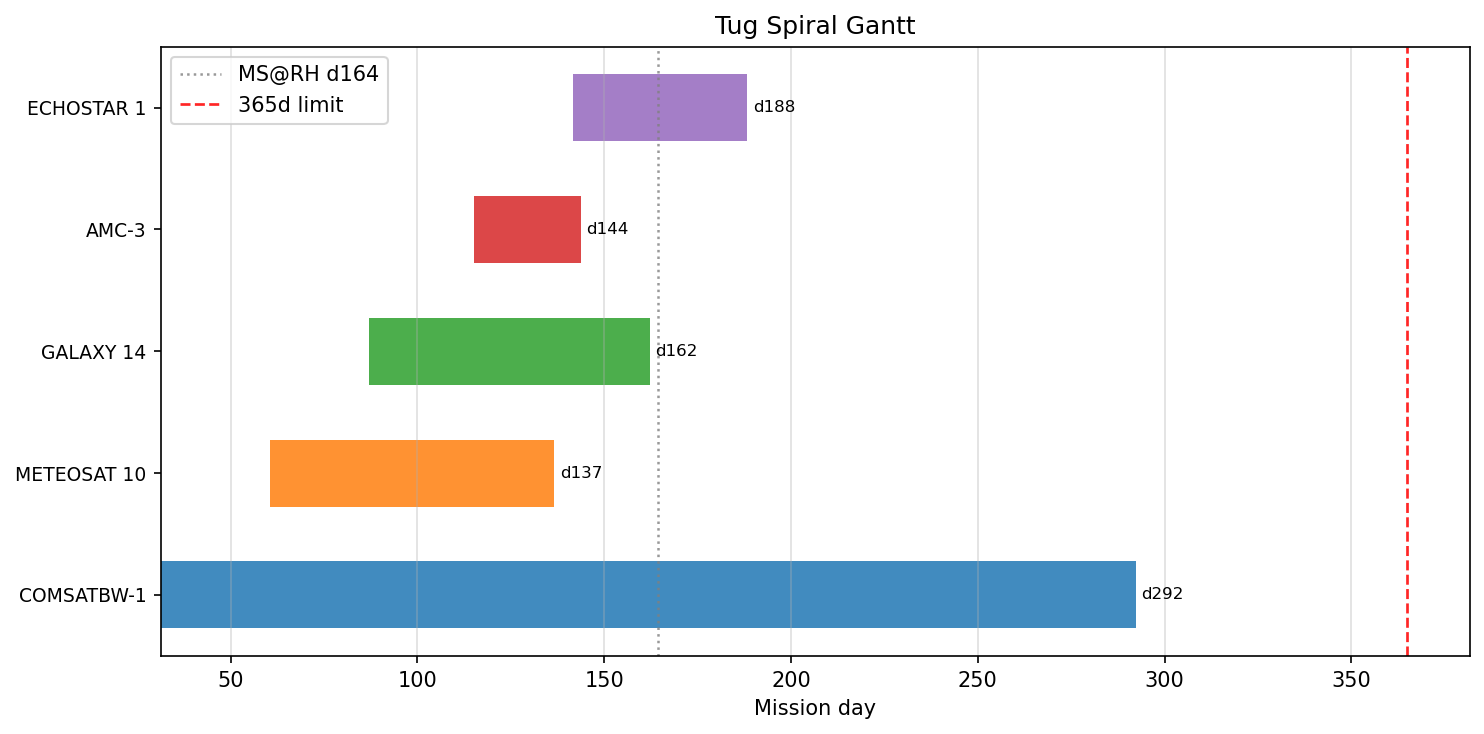
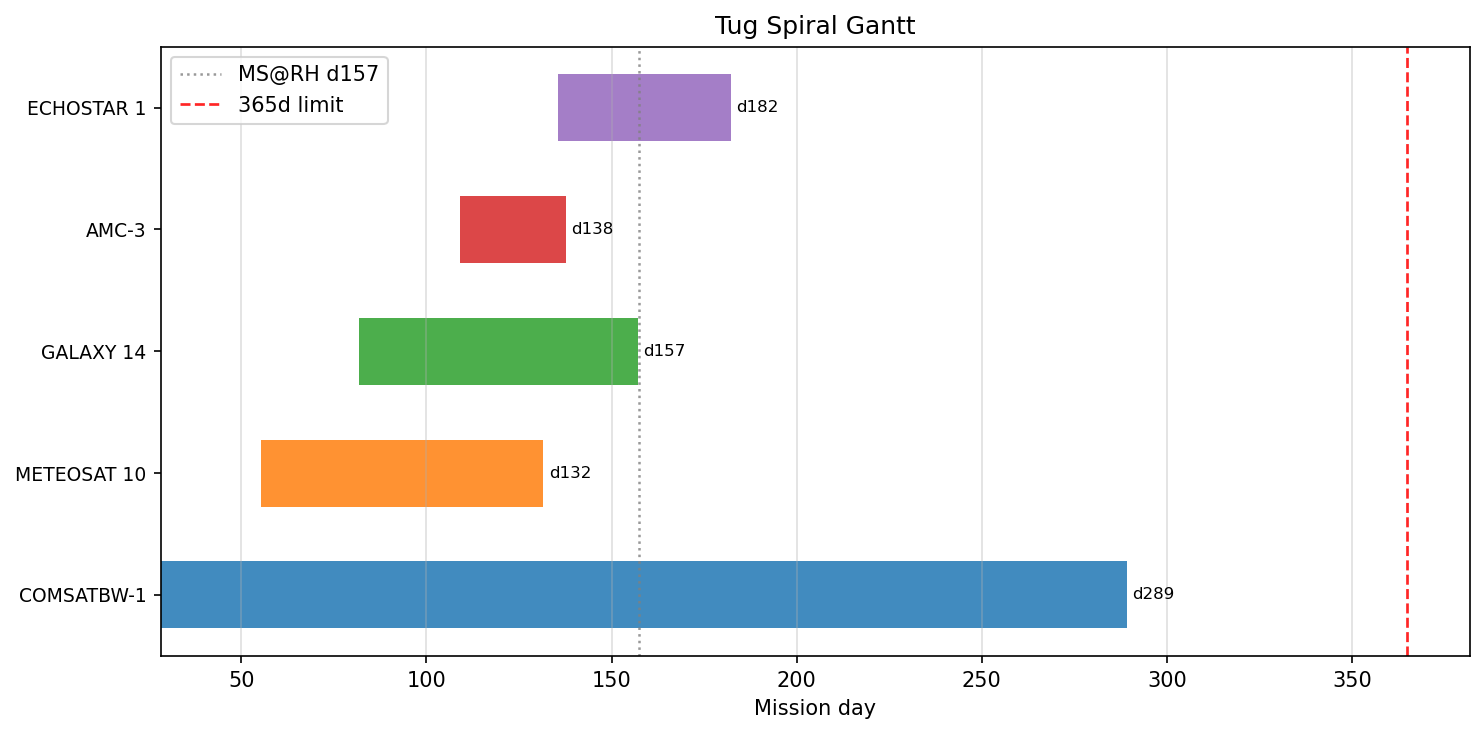
tug loading strategy implemented

diff --git a/trajectory_optimizer/reaver_optimizer.py b/trajectory_optimizer/reaver_optimizer.py
@@ -33,6 +33,7 @@ warnings.filterwarnings('ignore')
 
 from config import *
 from reaver_core import (build_transfer_table, compute_tug_spirals, phasing_hohmann,
+                         tug_loads,
                          DV1, DV2, DV_PH, T_TR, T_PH, DV_LEG, T_LEG, T_LEG_FINITE,
                          finite_burn_time, finite_burn_info,
                          TUG_DV, TUG_TIME, TUG_MPROP, TUG_MWET, TUG_WET_LOADED)
@@ -78,9 +79,10 @@ def evaluate_all_sequences():
     dv_legs = DV_LEG[from_nodes, to_nodes]   # (n_seq, 6)
     t_legs  = T_LEG_FINITE[from_nodes, to_nodes]   # (n_seq, 6)
 
-    # Per-sequence tug wet masses: all 5 tugs sized to the worst-case debris in each sequence
-    tug_prop_uniform = TUG_MPROP[sequences].max(axis=1, keepdims=True)   # (n_seq, 1)
-    tug_mwet_seq = (TUG_DRY + np.repeat(tug_prop_uniform, 5, axis=1)).astype(np.float64)  # (n_seq, 5)
+    # Per-sequence tug wet masses: REAVER loading rule — 2 tugs at (max req +10%),
+    # 3 tugs at (2nd-highest req +10%), aligned to debris visit order.
+    tug_loads_seq = tug_loads(TUG_MPROP[sequences])                       # (n_seq, 5)
+    tug_mwet_seq  = (TUG_DRY + tug_loads_seq).astype(np.float64)          # (n_seq, 5)
 
     # Backward pass: orbital prop sized so final mass = MS_DRY (transfers only)
     m_req = np.full(n_seq, MS_DRY, dtype=np.float64)
@@ -202,7 +204,7 @@ def evaluate_all_sequences():
     order  = np.argsort(score)
     sel    = c_idx[order]
 
-    tug_prop_sel = TUG_MPROP[f_seq[sel]].max(axis=1) * 5   # uniform sizing: 5× worst tug in sequence
+    tug_prop_sel = tug_loads_seq[f_idx][sel].sum(axis=1)   # total prop loaded (REAVER rule)
     ms_prop_sel  = ms_prop_seq[f_idx][sel]
     rcs_sel      = f_rcs[sel]
     results = {
@@ -277,12 +279,13 @@ def print_top(res, n=3, start=0, label=None):
               f"{'Arrive d':>9} {'Handover':>9}")
         print(f"  {'':─<3} {'':─<28} {'':─>8} {'':─>8} "
               f"{'':─>9} {'':─>9} {'':─>9}")
-        tug_prop_uniform = TUG_MPROP[list(seq)].max()
+        seq_loads = tug_loads(TUG_MPROP[list(seq)])   # per-tug loaded prop (position order)
+        max_req   = TUG_MPROP[list(seq)].max()
         for i, idx in enumerate(seq):
-            worst_flag = '  ← sizing driver' if TUG_MPROP[idx] == tug_prop_uniform else ''
+            worst_flag = '  ← sizing driver' if TUG_MPROP[idx] == max_req else ''
             print(f"  {i+1:<3} {NAMES[idx]:<28} "
                   f"{TUG_DV[idx]:>7.1f}m "
-                  f"{tug_prop_uniform:>7.1f}kg "
+                  f"{seq_loads[i]:>7.1f}kg "
                   f"{TUG_TIME[idx]:>8.1f}d "
                   f"{res['tug_arrive'][rank,i]:>8.1f}d "
                   f"{res['handover'][rank,i]:>8.1f}d{worst_flag}")
@@ -337,7 +340,7 @@ def print_mass_timeline(res, rank, label):
     seq        = res['sequences'][rank]
     ms_prop    = res['ms_prop'][rank]         # orbital prop
     rcs_alloc  = res['rcs_alloc'][rank]       # RCS budget (10 %)
-    tug_mwets  = np.full(5, TUG_DRY + TUG_MPROP[list(seq)].max())
+    tug_mwets  = TUG_DRY + tug_loads(TUG_MPROP[list(seq)])
     nf_        = [RH_IDX] + list(seq)
     nt_        = list(seq) + [RH_IDX]
     m0         = MS_DRY + ms_prop + rcs_alloc + tug_mwets.sum()
@@ -521,14 +524,15 @@ def print_tug_analysis():
 # =============================================================================
 
 def print_tug_margins(res, rank):
-    """For each tug in the sequence, show propellant required vs uniform budget."""
-    seq              = res['sequences'][rank]
-    tug_prop_uniform = float(TUG_MPROP[list(seq)].max())
-    nf               = res['n_feasible']
+    """For each tug in the sequence, show propellant required vs loaded budget."""
+    seq       = res['sequences'][rank]
+    seq_loads = tug_loads(TUG_MPROP[list(seq)])   # per-tug loaded prop (position order)
+    max_req   = float(TUG_MPROP[list(seq)].max())
+    nf        = res['n_feasible']
 
     print("\n" + "="*76)
     print(f"  TUG PROPELLANT MARGINS — rank {rank+1}/{nf}  "
-          f"(uniform budget: {tug_prop_uniform:.1f} kg/tug)")
+          f"(REAVER loading: 2× max+{TUG_PROP_MARGIN*100:.0f}%, 3× 2nd+{TUG_PROP_MARGIN*100:.0f}%)")
     print("="*76)
     print(f"  {'Tug':<3} {'Debris':<33} {'Req kg':>8} {'Budget kg':>10} "
           f"{'Margin kg':>10} {'Margin %':>9}")
@@ -536,15 +540,16 @@ def print_tug_margins(res, rank):
 
     for i, idx in enumerate(seq):
         req    = float(TUG_MPROP[idx])
-        margin = tug_prop_uniform - req
-        pct    = 100.0 * margin / tug_prop_uniform
-        flag   = '  ← sizing driver' if req == tug_prop_uniform else ''
-        print(f"  {i+1:<3} {NAMES[idx]:<33} {req:>8.1f} {tug_prop_uniform:>10.1f} "
+        budget = float(seq_loads[i])
+        margin = budget - req
+        pct    = 100.0 * margin / budget
+        flag   = '  ← sizing driver' if req == max_req else ''
+        print(f"  {i+1:<3} {NAMES[idx]:<33} {req:>8.1f} {budget:>10.1f} "
               f"{margin:>10.1f} {pct:>8.1f}%{flag}")
 
-    total_loaded = 5 * tug_prop_uniform
+    total_loaded = float(seq_loads.sum())
     total_needed = float(TUG_MPROP[list(seq)].sum())
-    print(f"\n  Total loaded  : {total_loaded:>8.1f} kg  (5 × {tug_prop_uniform:.1f} kg)")
+    print(f"\n  Total loaded  : {total_loaded:>8.1f} kg")
     print(f"  Total needed  : {total_needed:>8.1f} kg")
     print(f"  Total margin  : {total_loaded - total_needed:>8.1f} kg")
 
@@ -636,7 +641,7 @@ def make_plots(res, save_path=None, wp=None):
     # ── 3. Mothership mass vs time ────────────────────────────────────────
     ax_m = fig.add_subplot(gs[1,1])
     sax(ax_m,f'Worst-case MS prop (rank {_wp+1}/{nf}) — mothership mass vs time')
-    tug_mwets0 = np.full(5, TUG_DRY + TUG_MPROP[list(seqW)].max())
+    tug_mwets0 = TUG_DRY + tug_loads(TUG_MPROP[list(seqW)])
     ms_wet0 = MS_DRY + res['ms_prop'][_wp] + tug_mwets0.sum()
     nf_m = [RH_IDX] + list(seqW)
     nt_m = list(seqW) + [RH_IDX]

diff --git a/trajectory_optimizer/rh_raan_sweep.py b/trajectory_optimizer/rh_raan_sweep.py
@@ -17,7 +17,7 @@ import time, warnings
 warnings.filterwarnings('ignore')
 
 from config import *
-from reaver_core import compute_tug_spirals
+from reaver_core import compute_tug_spirals, tug_loads
 
 # =============================================================================
 # PRE-COMPUTE DEBRIS↔DEBRIS TRANSFER TABLE  (independent of RH RAAN)
@@ -152,7 +152,7 @@ def evaluate_raan(rh_raan_deg):
     dv_legs = DV_LEG[_from, _to]
     t_legs  = T_LEG[_from,  _to]
 
-    tug_mwet = (TUG_DRY + TUG_MPROP[_sequences]).astype(np.float64)
+    tug_mwet = (TUG_DRY + tug_loads(TUG_MPROP[_sequences])).astype(np.float64)   # REAVER loading rule
 
     # Backward pass → propellant per sequence (N_SEQ,)
     m_req = np.full(N_SEQ, MS_DRY)
@@ -262,82 +262,42 @@ print("="*60)
 # PLOT
 # =============================================================================
 
-BG='#0d1117'; CB='#161b22'; TC='#c9d1d9'; MU_='#8b949e'; GR='#21262d'
-A1='#58a6ff'; A2='#3fb950'; A3='#f78166'; A4='#d2a8ff'
+plt.style.use('default')
 
-fig, (ax1, ax2) = plt.subplots(2, 1, figsize=(14, 10), sharex=True)
-fig.patch.set_facecolor(BG)
-fig.text(0.5, 0.98, 'Recycling Hub RAAN Optimisation — Mothership Propellant Sweep',
-         ha='center', color=TC, fontsize=13, fontweight='bold')
+fig, ax1 = plt.subplots(1, 1, figsize=(12, 6))
 
-for ax in (ax1, ax2):
-    ax.set_facecolor(CB)
-    [s.set_edgecolor(GR) for s in ax.spines.values()]
-    ax.tick_params(colors=MU_, labelsize=8)
-    ax.xaxis.label.set_color(MU_)
-    ax.yaxis.label.set_color(MU_)
-    ax.grid(True, color=GR, lw=0.5, alpha=0.6)
-
-# ── Panel 1: propellant ───────────────────────────────────────────────────────
 # Shade region where all combinations are feasible
 for i in range(len(RAAN_SWEEP) - 1):
     if all_feas_mask[i]:
-        ax1.axvspan(RAAN_SWEEP[i], RAAN_SWEEP[i+1], color=A2, alpha=0.07, lw=0)
+        ax1.axvspan(RAAN_SWEEP[i], RAAN_SWEEP[i+1], color='tab:green', alpha=0.10, lw=0)
 if all_feas_mask[-1]:
-    ax1.axvspan(RAAN_SWEEP[-1], RAAN_SWEEP[-1]+1, color=A2, alpha=0.07, lw=0)
+    ax1.axvspan(RAAN_SWEEP[-1], RAAN_SWEEP[-1]+1, color='tab:green', alpha=0.10, lw=0)
 
-ax1.plot(RAAN_SWEEP, prop_worst, color=A3, lw=1.8,
-         label=f'Worst combination — best-Pareto ordering  (max={np.nanmax(prop_worst):.0f} kg)')
-ax1.plot(RAAN_SWEEP, prop_mean,  color=A4, lw=1.2, ls='--',
-         label='Mean across feasible combinations')
-ax1.plot(RAAN_SWEEP, prop_best,  color=A2, lw=1.8,
-         label=f'Best combination — best-Pareto ordering  (min={np.nanmin(prop_best):.0f} kg)')
+ax1.plot(RAAN_SWEEP, prop_worst, color='tab:red', lw=2.0,
+         label=f'Worst combination (max = {np.nanmax(prop_worst):.0f} kg)')
 
-ax1.axvline(opt_raan, color=A1, lw=2.0, ls=':', alpha=0.95,
-            label=f'Optimum RAAN = {opt_raan:.0f}°  |  worst-combo prop = {prop_worst[opt_idx]:.0f} kg  |  all {N_COMBOS} combos feasible')
-ax1.scatter([opt_raan], [prop_worst[opt_idx]], color=A1, s=90, zorder=6, lw=0)
+ax1.axvline(opt_raan, color='tab:blue', lw=1.8, ls='--',
+            label=f'Optimum RAAN = {opt_raan:.0f}°  |  worst-combo prop = {prop_worst[opt_idx]:.0f} kg')
+ax1.scatter([opt_raan], [prop_worst[opt_idx]], color='tab:blue', s=70, zorder=6)
 
-# debris RAAN markers — placed after plot so get_ylim() is valid
+# Debris RAAN markers
 ax1.autoscale_view()
 y_top = ax1.get_ylim()[1]
 for r, nm in zip(RAAN, NAMES):
-    ax1.axvline(r, color=MU_, lw=0.6, alpha=0.35)
-    ax1.text(r, y_top, nm.split('(')[0].strip()[:10], rotation=90, fontsize=5.5,
-             color=MU_, ha='center', va='top', alpha=0.6)
+    ax1.axvline(r, color='gray', lw=0.6, alpha=0.4)
+    ax1.text(r, y_top, nm.split('(')[0].strip()[:10], rotation=90, fontsize=6,
+             color='gray', ha='center', va='top', alpha=0.7)
 
+ax1.set_xlabel('RH RAAN [deg]')
 ax1.set_ylabel('MS propellant required [kg]')
-ax1.set_title('Mothership propellant vs RH RAAN  (per combination: best-Pareto ordering)',
-              color=TC, fontsize=9, fontweight='bold', pad=6)
-ax1.legend(fontsize=7, facecolor=CB, labelcolor=TC, edgecolor=GR)
-
-# ── Panel 2: feasible count ───────────────────────────────────────────────────
-# Shade fully-feasible region
-for i in range(len(RAAN_SWEEP) - 1):
-    if all_feas_mask[i]:
-        ax2.axvspan(RAAN_SWEEP[i], RAAN_SWEEP[i+1], color=A2, alpha=0.12, lw=0)
-if all_feas_mask[-1]:
-    ax2.axvspan(RAAN_SWEEP[-1], RAAN_SWEEP[-1]+1, color=A2, alpha=0.12, lw=0)
-
-ax2.fill_between(RAAN_SWEEP, n_feas, alpha=0.25, color=A1)
-ax2.plot(RAAN_SWEEP, n_feas, color=A1, lw=1.8)
-ax2.axhline(N_COMBOS, color=A2, lw=1.2, ls='--', alpha=0.8,
-            label=f'All {N_COMBOS} combinations feasible')
-ax2.axvline(opt_raan, color=A1, lw=2.0, ls=':', alpha=0.95,
-            label=f'Optimum RAAN = {opt_raan:.0f}°')
-
-for r in RAAN:
-    ax2.axvline(r, color=MU_, lw=0.6, alpha=0.35)
-
-ax2.set_xlabel('RH RAAN [deg]')
-ax2.set_ylabel(f'Feasible combinations (of {N_COMBOS})')
-ax2.set_title('Feasible combinations vs RH RAAN', color=TC, fontsize=9,
-              fontweight='bold', pad=6)
-ax2.legend(fontsize=7.5, facecolor=CB, labelcolor=TC, edgecolor=GR)
-ax2.set_xlim(min(RAAN_SWEEP), max(RAAN_SWEEP))
+ax1.set_title('Mothership propellant vs RH RAAN  (worst combination, best-Pareto ordering)')
+ax1.legend(fontsize=9)
+ax1.set_xlim(min(RAAN_SWEEP), max(RAAN_SWEEP))
+ax1.grid(True, lw=0.5, alpha=0.5)
 
 SAVE = os.path.join(os.path.dirname(os.path.abspath(__file__)),
                     'figures', 'rh_raan_sweep', 'rh_raan_sweep.png')
 os.makedirs(os.path.dirname(SAVE), exist_ok=True)
-plt.tight_layout(rect=[0, 0, 1, 0.97])
-plt.savefig(SAVE, dpi=150, bbox_inches='tight', facecolor=BG)
+plt.tight_layout()
+plt.savefig(SAVE, dpi=150, bbox_inches='tight')
 print(f"\n  Plot saved → {SAVE}")

diff --git a/trajectory_optimizer/nominal_mission.py b/trajectory_optimizer/nominal_mission.py
@@ -16,7 +16,7 @@ warnings.filterwarnings('ignore')
 
 from config import *
 from reaver_core import (DV1, DV2, DV_PH, T_TR, T_PH, DV_LEG, T_LEG, T_LEG_FINITE,
-                         finite_burn_time, finite_burn_info,
+                         finite_burn_time, finite_burn_info, tug_loads,
                          TUG_DV, TUG_TIME, TUG_MPROP, TUG_MWET, TUG_WET_LOADED)
 
 # =============================================================================
@@ -131,8 +131,8 @@ def optimise_ordering(debris_indices):
 def evaluate_sequence(seq):
     nf = [RH_IDX] + list(seq)
     nt = list(seq) + [RH_IDX]
-    tug_prop_uniform = float(TUG_MPROP[list(seq)].max())   # worst-case tug sets the standard
-    tug_mwets = np.full(5, TUG_DRY + tug_prop_uniform)
+    # REAVER loading rule: 2 tugs at (max req +10%), 3 at (2nd-highest req +10%)
+    tug_mwets = TUG_DRY + tug_loads(TUG_MPROP[list(seq)])
 
     # Backward pass: orbital prop sized so final mass = MS_DRY (transfers only)
     m = MS_DRY
@@ -244,11 +244,12 @@ def print_results(r):
           f"{'Spiral d':>9} {'Start d':>8} {'Arrive d':>9} {'Handover':>9}")
     print(f"  {'':─<3} {'':─<28} {'':─>8} {'':─>8} "
           f"{'':─>9} {'':─>8} {'':─>9} {'':─>9}")
-    tug_prop_uniform = float(r['tug_mwets'][0] - TUG_DRY)
+    max_req = float(TUG_MPROP[list(seq)].max())
     for i, idx in enumerate(seq):
-        worst_flag = '  ← sizing driver' if TUG_MPROP[idx] == TUG_MPROP[list(seq)].max() else ''
+        load_i = float(r['tug_mwets'][i] - TUG_DRY)
+        worst_flag = '  ← sizing driver' if TUG_MPROP[idx] == max_req else ''
         print(f"  {i+1:<3} {NAMES[idx]:<28} "
-              f"{TUG_DV[idx]:>7.1f}m {tug_prop_uniform:>7.1f}kg "
+              f"{TUG_DV[idx]:>7.1f}m {load_i:>7.1f}kg "
               f"{TUG_TIME[idx]:>8.1f}d {r['tug_starts'][i]:>7.1f}d "
               f"{r['tug_arrive'][i]:>8.1f}d {r['handover'][i]:>8.1f}d{worst_flag}")
 
@@ -374,12 +375,14 @@ def print_mass_timeline(r):
 # =============================================================================
 
 def print_tug_margins(r):
-    """For each tug in the sequence, show propellant required vs uniform budget."""
-    seq              = r['seq']
-    tug_prop_uniform = float(r['tug_mwets'][0] - TUG_DRY)
+    """For each tug in the sequence, show propellant required vs loaded budget."""
+    seq     = r['seq']
+    loads   = r['tug_mwets'] - TUG_DRY            # per-tug loaded prop (position order)
+    max_req = float(TUG_MPROP[list(seq)].max())
 
     print("\n" + "="*76)
-    print(f"  TUG PROPELLANT MARGINS  (uniform budget: {tug_prop_uniform:.1f} kg/tug)")
+    print(f"  TUG PROPELLANT MARGINS  "
+          f"(REAVER loading: 2× max+{TUG_PROP_MARGIN*100:.0f}%, 3× 2nd+{TUG_PROP_MARGIN*100:.0f}%)")
     print("="*76)
     print(f"  {'Tug':<3} {'Debris':<33} {'Req kg':>8} {'Budget kg':>10} "
           f"{'Margin kg':>10} {'Margin %':>9}")
@@ -387,15 +390,16 @@ def print_tug_margins(r):
 
     for i, idx in enumerate(seq):
         req    = float(TUG_MPROP[idx])
-        margin = tug_prop_uniform - req
-        pct    = 100.0 * margin / tug_prop_uniform
-        flag   = '  ← sizing driver' if req == tug_prop_uniform else ''
-        print(f"  {i+1:<3} {NAMES[idx]:<33} {req:>8.1f} {tug_prop_uniform:>10.1f} "
+        budget = float(loads[i])
+        margin = budget - req
+        pct    = 100.0 * margin / budget
+        flag   = '  ← sizing driver' if req == max_req else ''
+        print(f"  {i+1:<3} {NAMES[idx]:<33} {req:>8.1f} {budget:>10.1f} "
               f"{margin:>10.1f} {pct:>8.1f}%{flag}")
 
-    total_loaded = 5 * tug_prop_uniform
+    total_loaded = float(loads.sum())
     total_needed = float(TUG_MPROP[list(seq)].sum())
-    print(f"\n  Total loaded  : {total_loaded:>8.1f} kg  (5 × {tug_prop_uniform:.1f} kg)")
+    print(f"\n  Total loaded  : {total_loaded:>8.1f} kg")
     print(f"  Total needed  : {total_needed:>8.1f} kg")
     print(f"  Total margin  : {total_loaded - total_needed:>8.1f} kg")
 

diff --git a/trajectory_optimizer/reaver_core.py b/trajectory_optimizer/reaver_core.py
@@ -124,6 +124,40 @@ def compute_tug_spirals(rh_raan_deg=RH_RAAN):
     return tug_dv, tug_time, tug_mprop, tug_mwet
 
 
+def tug_loads(tug_props):
+    """
+    REAVER tug propellant loading rule.
+
+    Given the per-debris tug propellant *requirements* (TUG_MPROP) for the 5
+    debris in a sequence, return the propellant actually *loaded* into each of
+    the 5 tugs, in the same position order as the input.
+
+    Loading rule (avoids under-using propellant capacity while guaranteeing a
+    redundant tug for the hardest spiral):
+      - the two debris with the highest requirement each get a tug loaded to
+        (max requirement)        × (1 + TUG_PROP_MARGIN)
+      - the remaining three get a tug loaded to
+        (2nd-highest requirement) × (1 + TUG_PROP_MARGIN)
+
+    Example: if the max requirement is 100 kg and the 2nd-highest is 30 kg,
+    two tugs are loaded to 110 kg and three tugs to 33 kg.
+
+    Accepts a (5,) vector or an (n, 5) array; returns an array of the same shape.
+    """
+    p = np.asarray(tug_props, dtype=np.float64)
+    single = (p.ndim == 1)
+    p = np.atleast_2d(p)                               # (n, 5)
+    order = np.argsort(-p, axis=1)                     # descending: rank -> position
+    desc  = np.take_along_axis(p, order, axis=1)       # (n, 5) requirements, descending
+    factor = 1.0 + TUG_PROP_MARGIN
+    load_by_rank = np.empty_like(p)
+    load_by_rank[:, :2] = desc[:, 0:1] * factor        # 2 hardest -> max  × margin
+    load_by_rank[:, 2:] = desc[:, 1:2] * factor        # other 3   -> 2nd  × margin
+    loads = np.empty_like(p)
+    np.put_along_axis(loads, order, load_by_rank, axis=1)   # scatter back to position order
+    return loads[0] if single else loads
+
+
 def phasing_hohmann(sma):
     """
     Double-Hohmann phasing burn and duration at a given orbit.
@@ -214,7 +248,7 @@ print(f"done ({time.time()-t0:.2f}s)")
 
 print("  Pre-computing tug spirals...", end=' ', flush=True)
 TUG_DV, TUG_TIME, TUG_MPROP, TUG_MWET = compute_tug_spirals()
-TUG_WET_LOADED = TUG_DRY + TUG_MPROP.max()
+TUG_WET_LOADED = TUG_DRY + TUG_MPROP.max() * (1.0 + TUG_PROP_MARGIN)
 print(f"done ({time.time()-t0:.2f}s)")
-print(f"  Tug loaded wet mass (worst-case sizing): {TUG_WET_LOADED:.1f} kg")
+print(f"  Tug loaded wet mass (max requirement +{TUG_PROP_MARGIN*100:.0f}%): {TUG_WET_LOADED:.1f} kg")
 

diff --git a/trajectory_optimizer/config.py b/trajectory_optimizer/config.py
@@ -24,6 +24,7 @@ TUG_DRY = 221.4   # kg   dry mass per tug
 TUG_ISP = 1600.0       # s    specific impulse (electric propulsion)
 TUG_VEX = TUG_ISP * G0
 TUG_THR = 0.07        # N    thrust per tug
+TUG_PROP_MARGIN = 0.10   # -    +10 % loading margin applied to every tug's propellant
 
 # ── Mission ───────────────────────────────────────────────────────────────────
 N_PHASE_REV = 18       # revolutions on phasing orbit to close 90° phase gap
@@ -88,7 +89,7 @@ MASS_ALL = np.append(MASS, 0.0)
 __all__ = [
     'MU', 'G0', 'DAY', 'D2R',
     'MS_DRY', 'MS_ISP', 'MS_VEX', 'MS_RCS_MARGIN',
-    'TUG_DRY', 'TUG_ISP', 'TUG_VEX', 'TUG_THR',
+    'TUG_DRY', 'TUG_ISP', 'TUG_VEX', 'TUG_THR', 'TUG_PROP_MARGIN',
     'N_PHASE_REV', 'T_OPS', 'MAX_DAYS', 'SOFT_MASS',
     'RH_SMA', 'RH_INC', 'RH_RAAN',
     'DV_RPO_DEBRIS', 'DV_RPO_DETUMBLE', 'DV_RPO_TUG_MEET',
@@ -104,4 +105,4 @@ __all__ = [
 # ── Mothership finite-burn model ──────────────────────────────────────────────
 MS_THR   = 64.0        # N, thruster force
 MS_BURN_S = 38 * 60    # s, max single firing duration
-MS_WET_ESTIMATE = 4000.0  # kg, representative mid-mission mass for table pre-computation
+MS_WET_ESTIMATE = 2250.0  # kg, representative mid-mission mass for table pre-computation

diff --git a/trajectory_optimizer/rpo/rpo_config.py b/trajectory_optimizer/rpo/rpo_config.py
@@ -39,7 +39,7 @@ R_CUTOFF = 150.0        # m   RF/UKF -> LiDAR/VBN handover (100-200 m band).
 # after the V-bar inspection has measured the spin rate + tumble axis.
 INSPECT_STANDOFF = 20.0     # m   V-bar inspection hold standoff (KOS1-clear, fixed hold)
 H_BAR_STANDOFF   = 20.0     # m   tumble-axis (H-bar) capture standoff
-ARM_LEN_EXTENDED = 5.0      # m   robotic-arm length when extended            # TBD MIRON
+ARM_LEN_EXTENDED = 4.627      # m   robotic-arm length when extended
 
 # ── KOS1: operational definition (NOT a mission constant) ────────────────────
 # KOS1 is set PER TARGET at the cut-off distance (150-200 m) based on the
